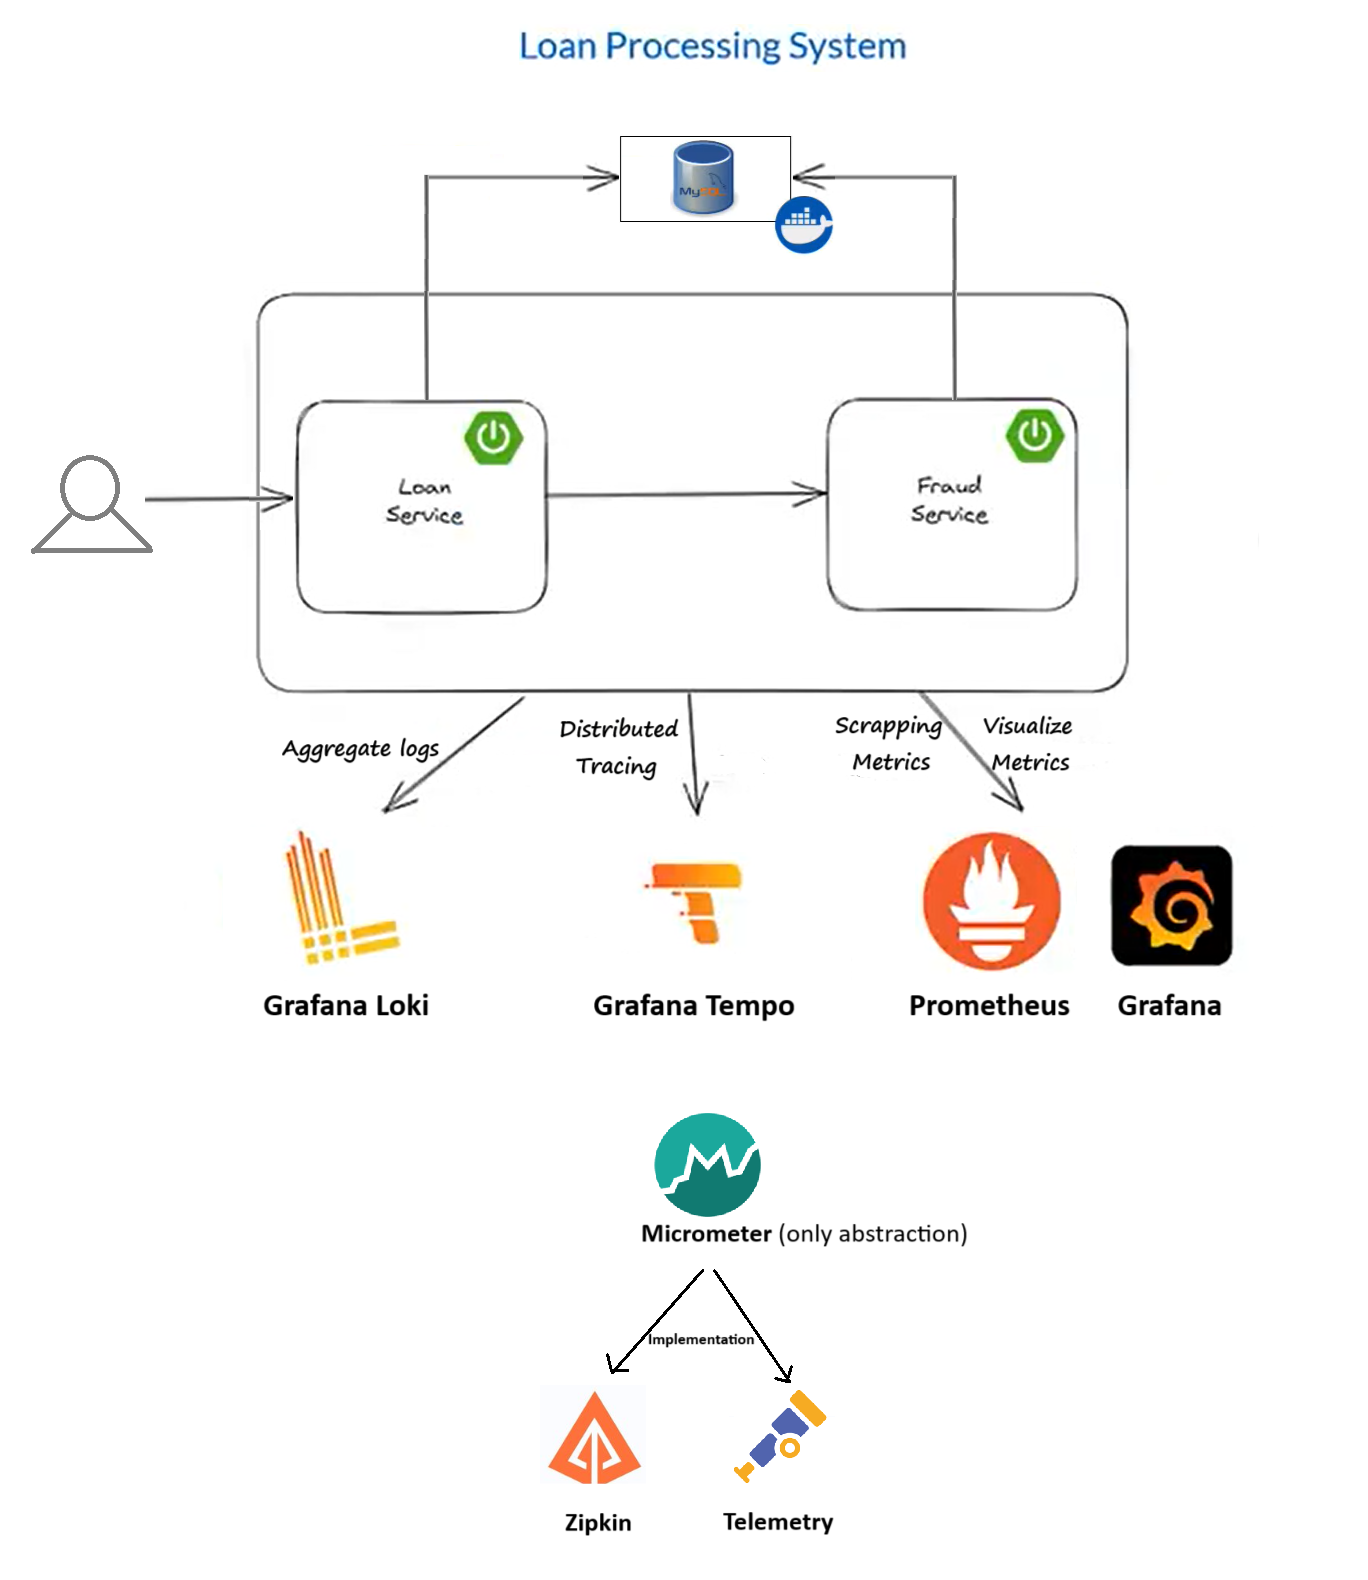
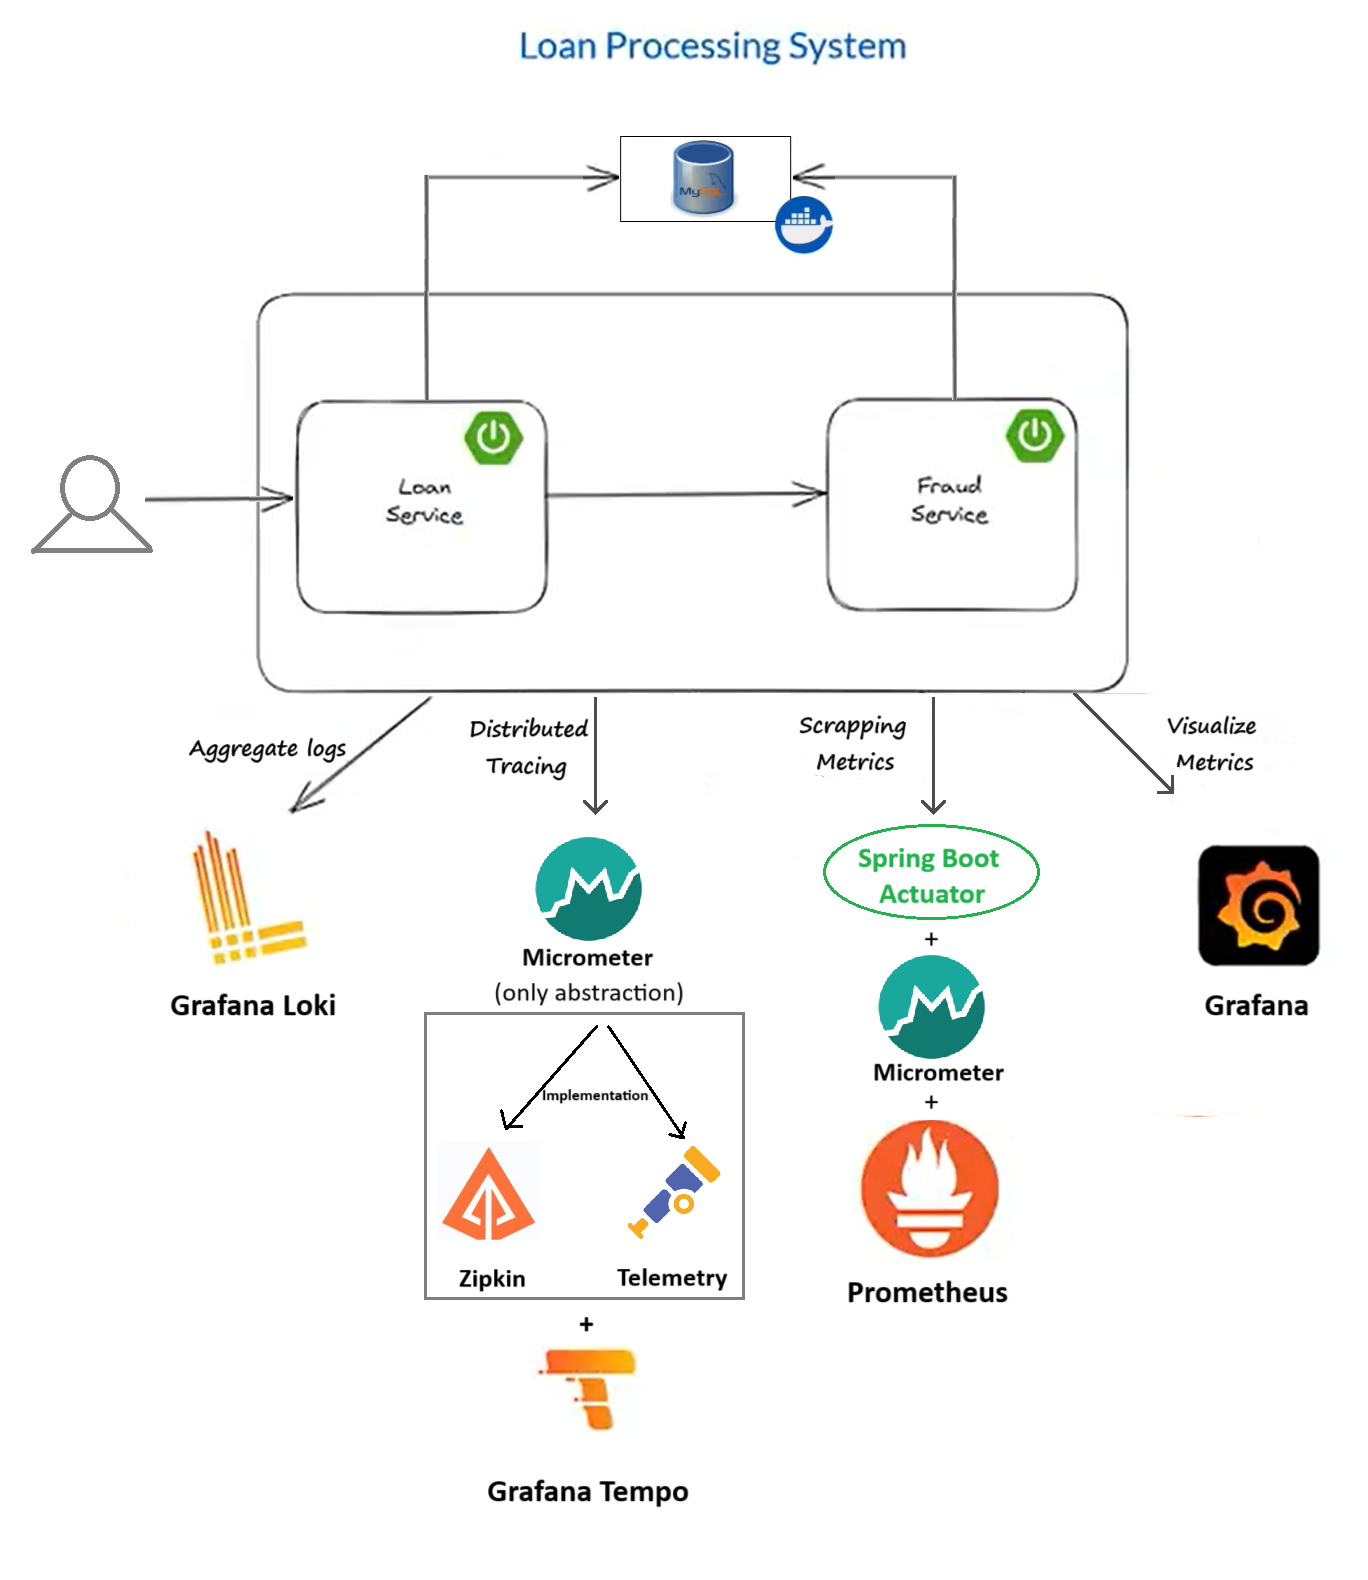
final commit

diff --git a/README.md b/README.md
@@ -32,7 +32,7 @@ cd micro-services-observability
 
 We can see all the actuator data on below endpoints:  
 
-loan-service:
+loan-service:  
 http://localhost:8080/actuator/health  
 http://localhost:8080/actuator/info  
 http://localhost:8080/actuator/metrics  
@@ -46,3 +46,73 @@ http://localhost:8081/actuator/prometheus
 
 
 Grafana URL: http://localhost:3000/
+
+
+| Application | Usage                | Details                                                        |
+|-------------|----------------------|----------------------------------------------------------------|
+| Loki        | Aggregates log       | logback logging framework                                      |
+| Tempo       | Distributed tracking | Micrometer + (Open Zipkin OR Open Telemetry) + Tempo           |
+| Prometheus  | Scrap Metrics        | Spring Boot Actuator + Micrometer + Prometheus                 |
+| Grafana     | Visualize Metrics    | Uses all 3 data sources (Loki, Tempo, Prometheus) to visualize |
+
+<br>
+
+**Logging**
+
+Spring boot application uses logback logging framework (logback-spring.xml) to send logs to Loki.
+1. Download Loki (Docker image grafana/loki:main) and run it (Loki runs on port 3100)
+2. Enable our application to send logs to loki:
+   - Add loki-logback-appender dependency --> It adds necessary integration between our App and Loki with the help of logback logging library.
+   - Add /src/main/resources/logback-spring.xml
+
+<br>
+
+**Tracing**
+
+1. Add tracing information to all the outgoing calls to REST template:
+   1. Enable distributed tracking using Micrometer. --> micrometer-tracing-bridge-brave dependency
+   2. Micrometer creates the Traces.
+   3. Micrometer is like a facade and uses either of below implementations:
+      - Open Zipkin Brave Project
+      - Open Telemetry
+   4. Report the tracing info to Tempo --> zipkin-reporter-brave dependency
+   5. Configure property: management.tracing.sampling.probability=1.0
+
+2. Add tracing information to database call:
+   1. Add dependency: datasource-micrometer-spring-boot
+   2. Add observation on the repository we want to add tracing using @Observed annotation
+   3. Enable observation using Aspect programing --> Observation config + AOP dependency
+
+3. Setup Tempo:
+   1. Download Tempo (Docker image grafana/tempo:2.2.2) - Tempo listening on port 3200
+   2. Add tempo configuration file at /docker/tempo/tempo.yml
+   3. Tempo runs on port 3100 + Tempo internally using zipkin, and zipkin runs on port 9411
+
+<br>
+
+**Metrics**
+
+Metrics can be any kind of measurable information about our application like: JVM statistics, Thread count, Heap memory statistics etc.
+1. Enable Spring Boot Actuator to collect metrics of our application --> By adding its dependency
+2. Enable Micrometer. It gathers the metrics and expose an endpoint that will be used by Prometheus. (Spring boot uses Micrometer to collect metrics) --> by adding its dependency
+3. Configure actuator and micrometer properties:
+   1. Exposes endpoints through the actuator
+      - management.endpoints.web.exposure.include=health, info, metrics, prometheus
+   2. micrometer gathers the metrics in the form of a histogram and send it to Prometheus
+      - management.metrics.distribution.percentiles-histogram.http.server.requests=true
+      - management.observations.key-values.application=loan-service
+4. Now we can see the metrics exposed by micrometer at: http://localhost:8080/actuator/prometheus or http://localhost:8081/actuator/prometheus
+5. Download Prometheus (Docker image prom/prometheus:v2.46.0) and run it (Prometheus runs on port 9090)
+6. Configuration prometheus.yml file, to tell Prometheus where it can find the necessary metrics to scrape
+
+<br>
+
+**Grafana**
+
+To Setup Grafana:
+1. Download Grafana (Docker image grafana/grafana:10.1.0)
+2. Add grafana configuration file at /docker/grafana/datasources.yml - To define all the datasources Grafana will use to Visualize:
+   - Loki - accessible at 3100
+   - Trace - accessible at 3200
+   - Prometheus - accessible at 9090
+3. Grafana is accessible using browser: http://localhost:3000/
